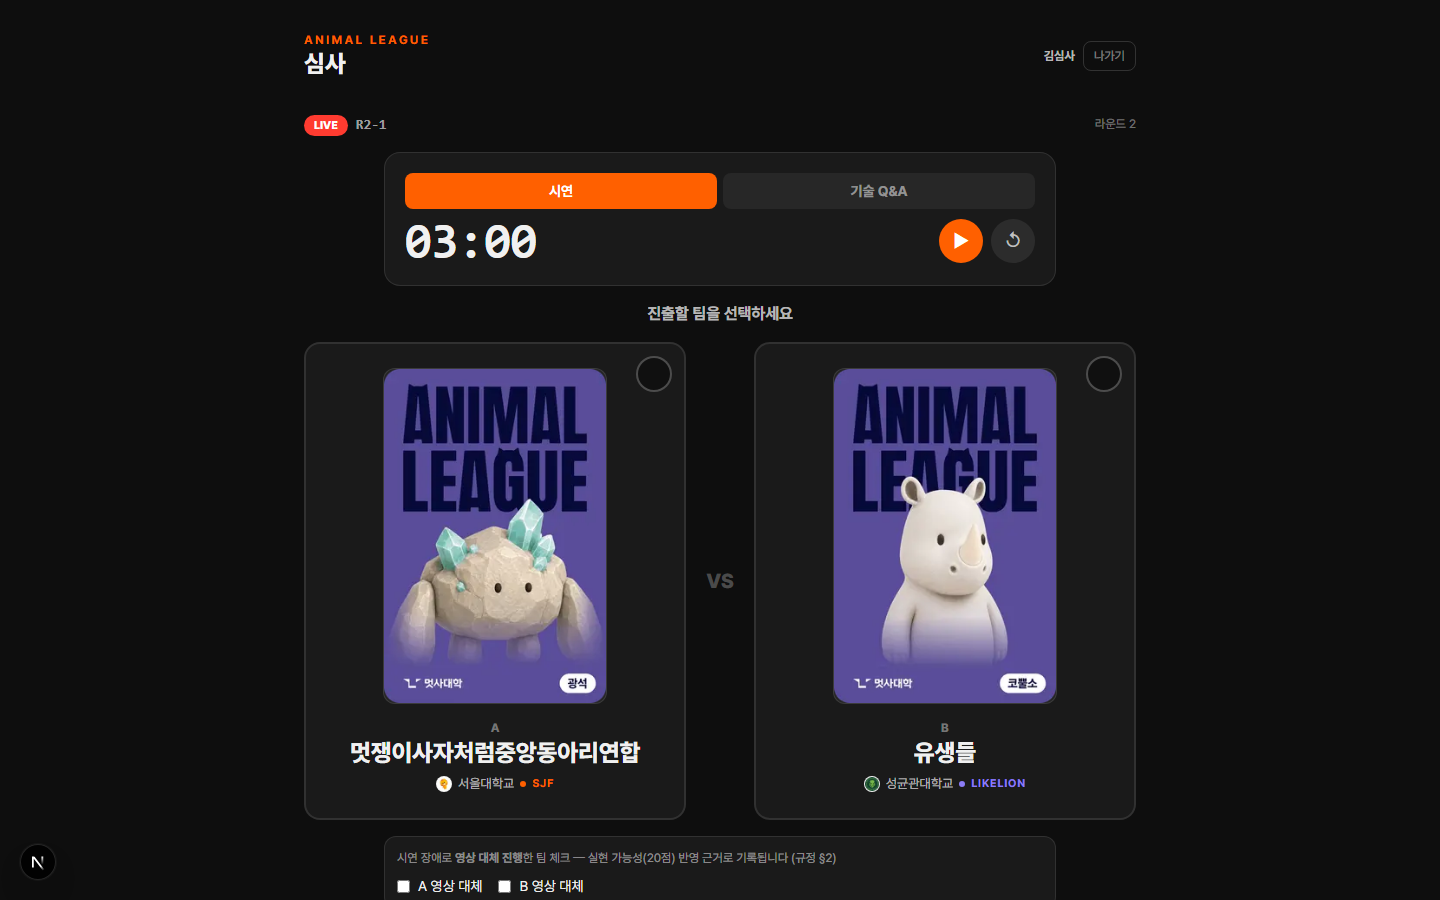
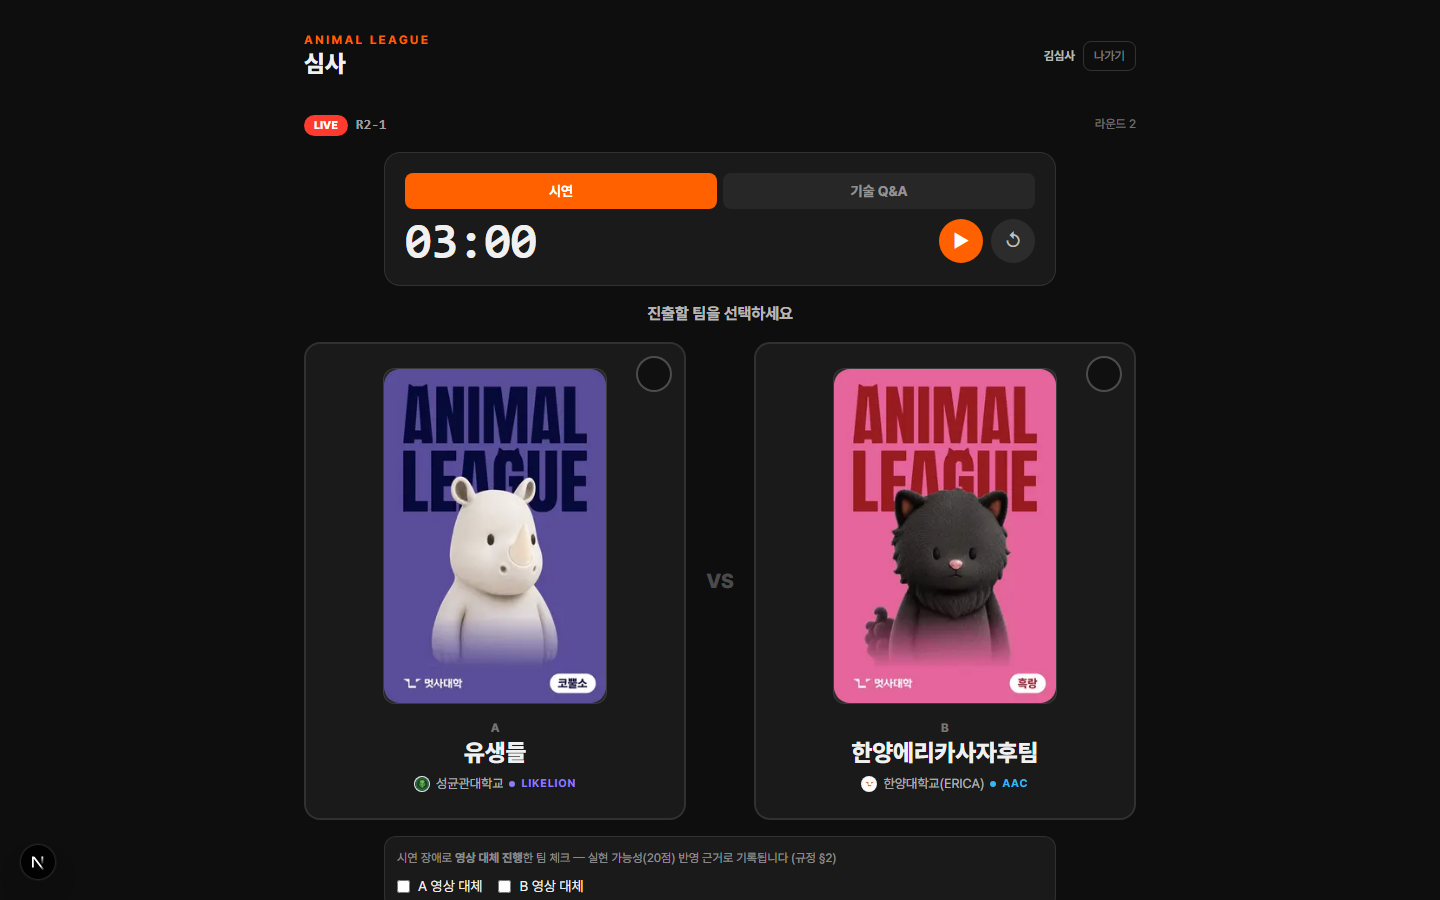
style(viewer): scale bracket team names by length for 20-char names
실운영 팀명이 최대 20자라는 정보 반영. 대진표 카드에서 22px 고정이면
20자는 2줄(line-clamp-2)을 넘어 잘린다.

길이 조건 스케일 채택 — 전체 축소가 아니라 10자 초과만 한 단계(22→17px,
결승 26→20px) 줄인다. 짧은 이름까지 같이 줄이면 프로젝터 원거리 가독성(§9)을
불필요하게 잃는다. 17px × 2줄이면 20자가 R1 카드 폭에 온전히 들어간다 (실캡처 확인).

포커스·우승 화면은 손대지 않음 — 폭이 넓어 기존 크기로도 20자가 2줄에 들어간다.

검증 — 20자 팀명으로 브래킷·준결승 카드 실캡처, tsc · eslint 통과.

Changed region(s): [[0.5625, 0.4044, 0.75, 0.9022], [0.25, 0.5289, 0.4375, 0.7778], [0.25, 0.8089, 0.4375, 0.9022]]

diff --git a/app/page.tsx b/app/page.tsx
@@ -80,9 +80,11 @@ function TeamRow({
         sizes={lg ? '64px' : '56px'}
       />
       <div className="min-w-0 flex-1">
-        {/* 팀명은 자르지 않는다 — 2줄까지 단어 단위 줄바꿈 (자른 팀명은 무대에서 틀린 이름이다) */}
+        {/* 팀명은 자르지 않는다 — 2줄 줄바꿈 + 길이 조건 스케일.
+            짧은 이름은 프로젝터 가독성 우선으로 크게, 11자 이상(최대 20자)은 한 단계
+            줄여서 2줄 안에 온전히 들어가게 한다. 자른 팀명은 무대에서 틀린 이름이다. */}
         <div
-          className={`line-clamp-2 font-extrabold leading-tight tracking-tight ${lg ? 'text-[26px]' : 'text-[22px]'}`}
+          className={`line-clamp-2 font-extrabold leading-tight tracking-tight ${nameSize(teamName(state, index), lg)}`}
         >
           {teamName(state, index)}
         </div>
@@ -97,6 +99,12 @@ function TeamRow({
       )}
     </div>
   );
+}
+
+/** 팀명 길이 조건 글자 크기 — 20자(서버 상한 40자, 실운영 최대 20자 기준)가 2줄에 들어가는 값. */
+function nameSize(name: string, lg: boolean): string {
+  if (lg) return name.length > 10 ? 'text-xl' : 'text-[26px]';
+  return name.length > 10 ? 'text-[17px]' : 'text-[22px]';
 }
 
 function VsDivider() {
